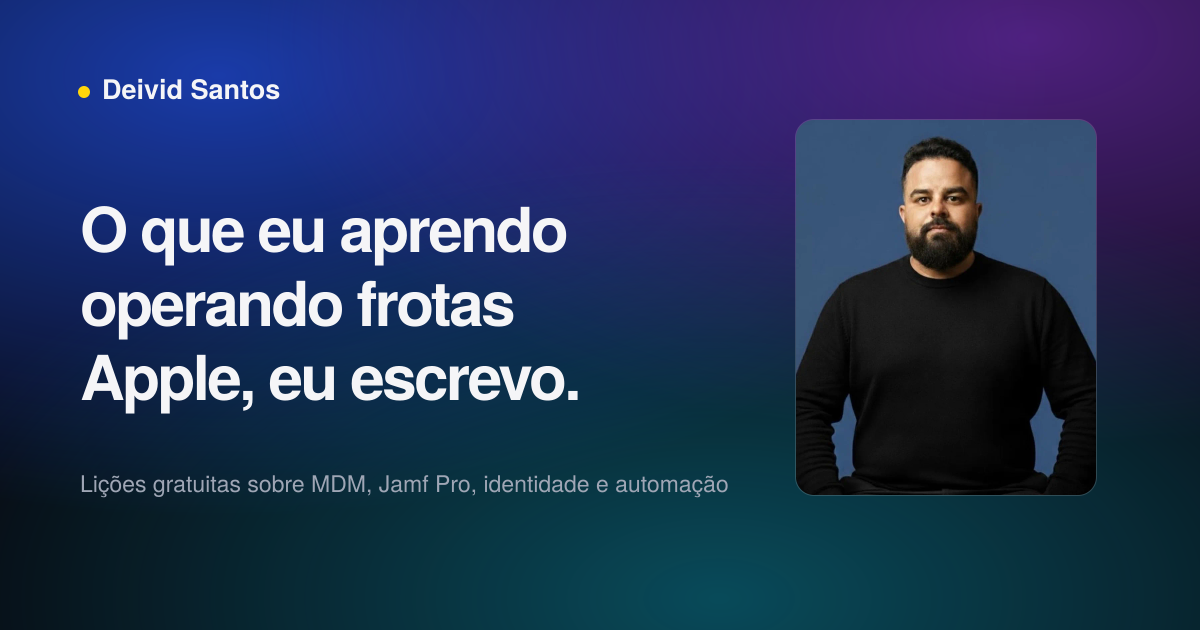
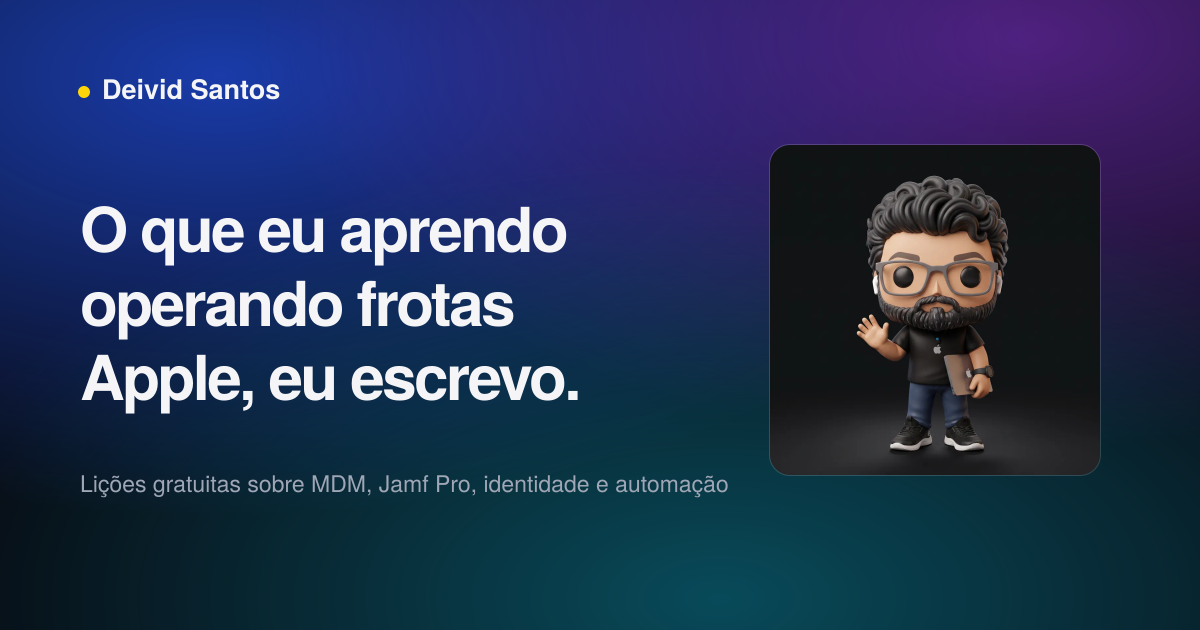
Topo com o boneco; foto real passa para a seção Sobre
Claude-Session: https://claude.ai/code/session_01PfsQR7Ac6ufzyJKfuqZ7Ju

Changed region(s): [[0.6167, 0.181, 0.925, 0.8143]]

diff --git a/index.html b/index.html
@@ -105,7 +105,7 @@
       </div>
 
       <figure class="retrato entra entra--2">
-        <img src="/img/deivid.webp" width="900" height="1125" alt="Retrato de Deivid Santos." fetchpriority="high">
+        <img src="/img/deivid-sobre.webp" width="1000" height="1000" alt="Ilustração em estilo de boneco colecionável de Deivid Santos, de cabelo cacheado escuro, barba e óculos, acenando e levando um MacBook sob o braço." fetchpriority="high">
       </figure>
     </section>
 
@@ -416,7 +416,7 @@
     <section id="sobre" class="secao" aria-labelledby="t-sobre">
       <div class="sobre">
         <figure>
-          <img src="/img/deivid-sobre.webp" width="1000" height="1000" loading="lazy" alt="Ilustração em estilo de boneco colecionável de Deivid Santos, acenando e levando um MacBook sob o braço.">
+          <img src="/img/deivid.webp" width="900" height="1125" loading="lazy" alt="Retrato de Deivid Santos.">
         </figure>
         <div>
           <h2 id="t-sobre">Por que eu escrevo</h2>
